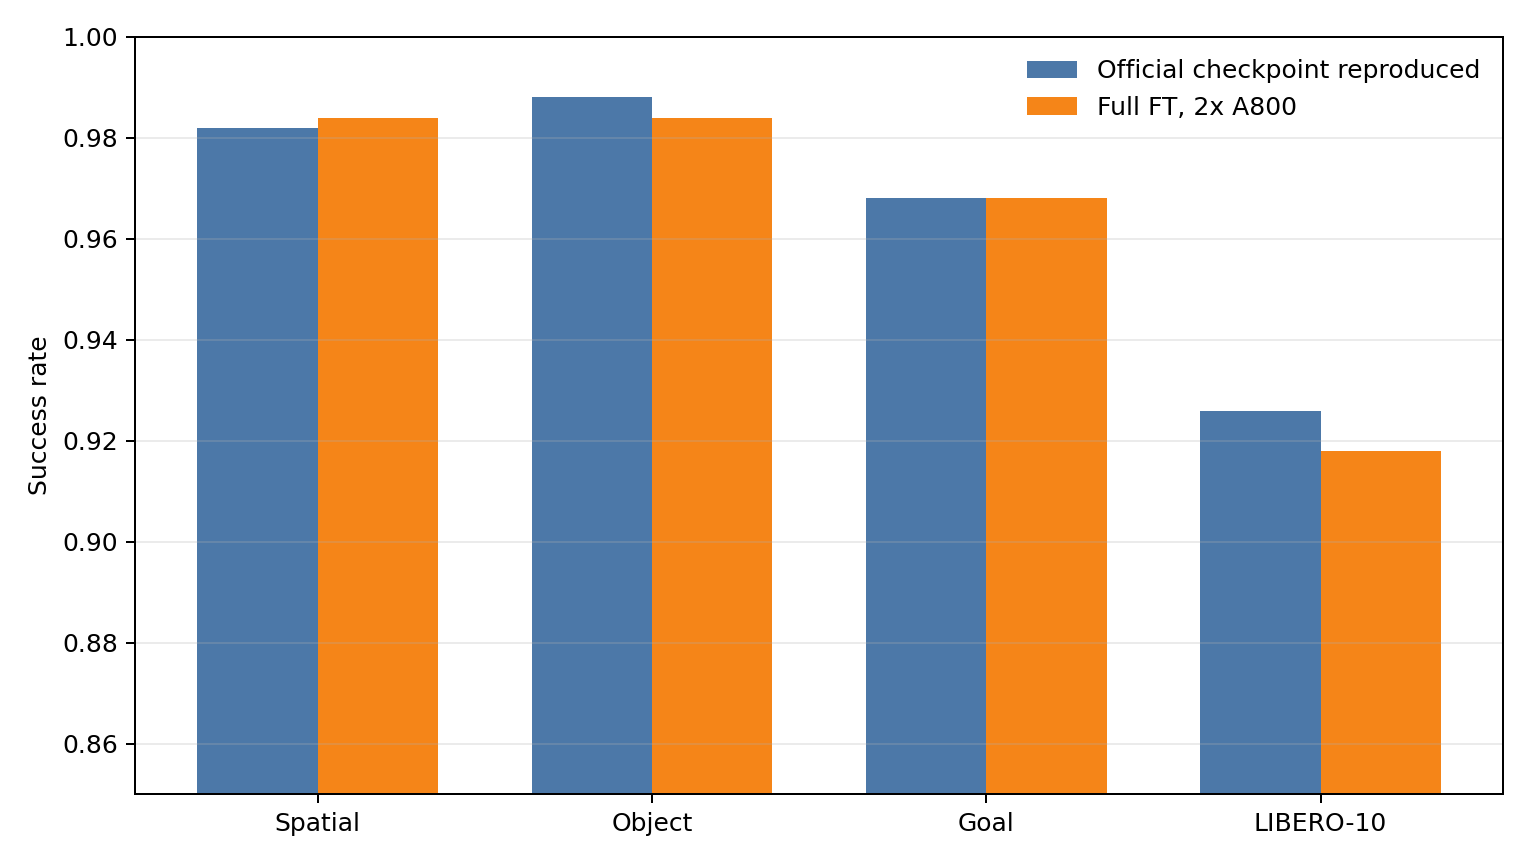
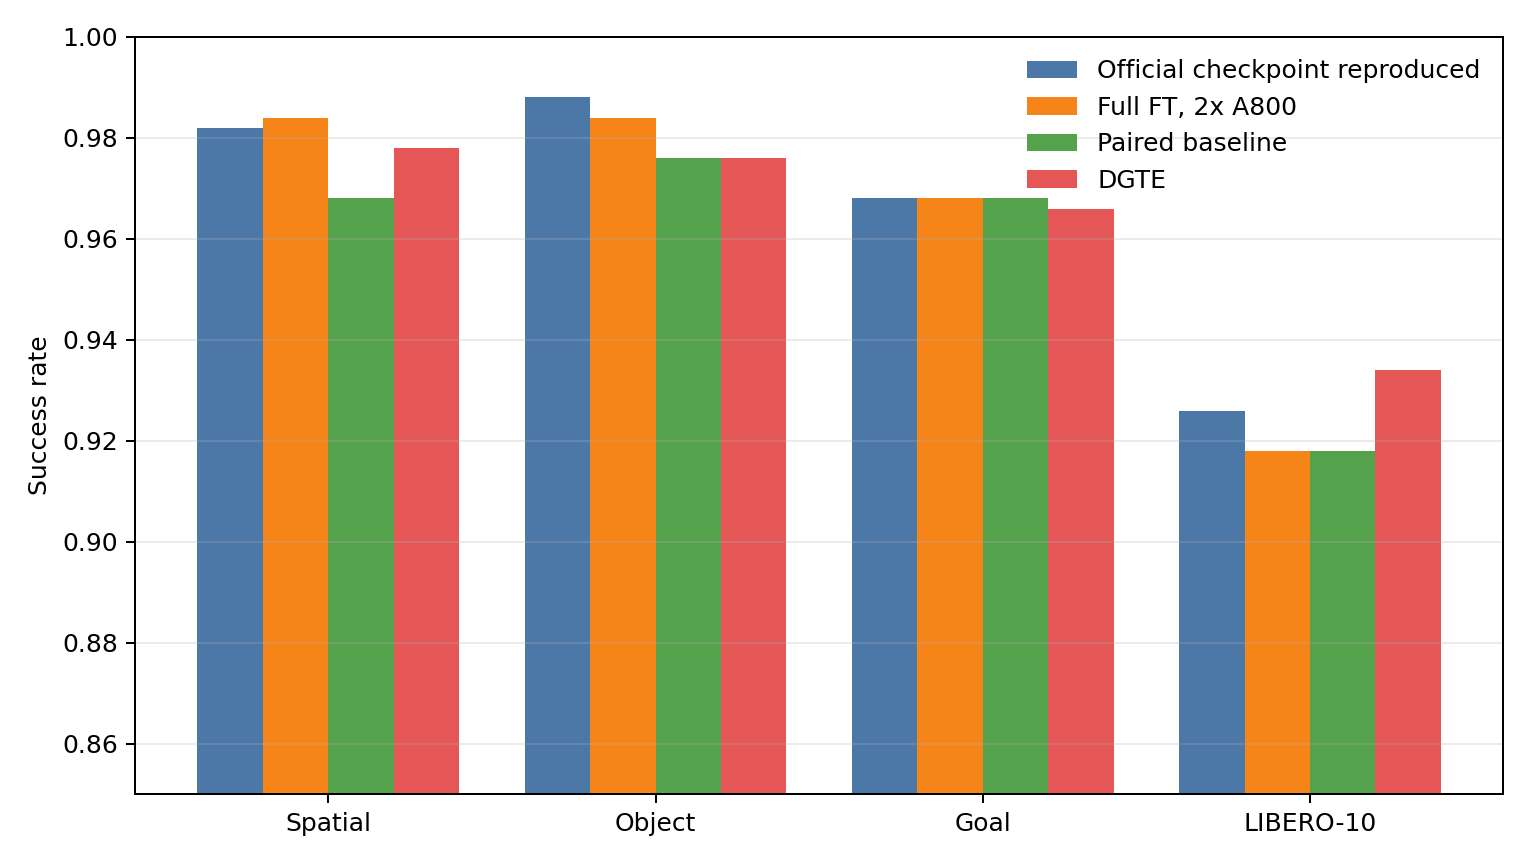
exp: publish formal DGTE paired benchmark

diff --git a/scripts/plot_results.py b/scripts/plot_results.py
@@ -1,5 +1,5 @@
 #!/usr/bin/env python3
-"""Plot the completed official-checkpoint and fine-tuning LIBERO results."""
+"""Plot the completed LIBERO baseline and DGTE results."""
 
 from __future__ import annotations
 
@@ -22,6 +22,8 @@ def main() -> None:
     suites = ["Spatial", "Object", "Goal", "LIBERO-10"]
     official = [0.982, 0.988, 0.968, 0.926]
     finetuned = [0.984, 0.984, 0.968, 0.918]
+    paired_baseline = [0.968, 0.976, 0.968, 0.918]
+    dgte = [0.978, 0.976, 0.966, 0.934]
     csv_path = Path(__file__).resolve().parents[1] / "experiments/results.csv"
     if csv_path.exists():
         with csv_path.open(newline="") as handle:
@@ -32,9 +34,11 @@ def main() -> None:
 
     x = np.arange(len(suites))
     figure, axis = plt.subplots(figsize=(8.5, 4.8))
-    width = 0.36
-    axis.bar(x - width / 2, official, width, label="Official checkpoint reproduced", color="#4c78a8")
-    axis.bar(x + width / 2, finetuned, width, label="Full FT, 2x A800", color="#f58518")
+    width = 0.20
+    axis.bar(x - 1.5 * width, official, width, label="Official checkpoint reproduced", color="#4c78a8")
+    axis.bar(x - 0.5 * width, finetuned, width, label="Full FT, 2x A800", color="#f58518")
+    axis.bar(x + 0.5 * width, paired_baseline, width, label="Paired baseline", color="#54a24b")
+    axis.bar(x + 1.5 * width, dgte, width, label="DGTE", color="#e45756")
     axis.set_ylim(0.85, 1.0)
     axis.set_ylabel("Success rate")
     axis.set_xticks(x, suites)

diff --git a/README.md b/README.md
@@ -21,8 +21,8 @@ extension:
    2x A800-80GB GPUs.
 3. DGTE (Disagreement-Gated Temporal Ensemble) is implemented as a client-side
    inference method. It fuses overlapping action chunks without changing the
-   checkpoint or requiring another training run. Its benchmark result is not
-   reported until the paired A/B evaluation has completed.
+   checkpoint or requiring another training run. Its paired four-suite
+   benchmark completed with a +0.60 percentage-point mean change.
 
 The repository does not contain model weights. Checkpoint paths in the tables
 are local archive paths from the original run; use the commands below to point
@@ -38,13 +38,22 @@ episodes per suite), and seed 7. Logs and CSV files are under
 |---|---:|---:|---:|---:|---:|
 | Official pi0.5 checkpoint, reproduced | 98.2% | 98.8% | 96.8% | 92.6% | **96.60%** |
 | pi05_base -> LIBERO, 2x A800, 30k steps | 98.4% | 98.4% | 96.8% | 91.8% | **96.35%** |
-| DGTE on the fine-tuned checkpoint (formal run) | pending | pending | pending | pending | pending |
+| Fine-tuned checkpoint, paired DGTE baseline | 96.8% | 97.6% | 96.8% | 91.8% | **95.75%** |
+| DGTE on the fine-tuned checkpoint | 97.8% | 97.6% | 96.6% | 93.4% | **96.35%** |
 
 The official checkpoint row is independently documented in
 [`docs/baseline.md`](docs/baseline.md). The fine-tuning row is archived in
 [`experiments/results.csv`](experiments/results.csv) and
 [`docs/results.md`](docs/results.md). No OOD or multimodal result is claimed in
 this repository yet.
+
+The formal paired DGTE run used 500 episodes per suite for each controller.
+The observed four-suite mean was 0.60 percentage points above its paired
+baseline, with gains on Spatial and LIBERO-10, no change on Object, and a
+0.20-point decrease on Goal. The aggregate exact McNemar test was not
+significant (`p=0.323`), so this is not evidence of a reliable overall gain.
+The tracked summary is
+[`experiments/dgte_ablation_parallel_20260818_2055_sr_summary.csv`](experiments/dgte_ablation_parallel_20260818_2055_sr_summary.csv).
 
 Training evidence is kept in [`docs/figures/`](docs/figures/) and the linked
 WandB run: <https://wandb.ai/3267189544-uestc/openpi/runs/hwdxnlvn>.
@@ -146,14 +155,14 @@ Run a paired baseline/DGTE evaluation against an existing checkpoint:
 cd "$PERSONAL_DIR"
 EXP_NAME=pi05_libero_2gpu_20260610_1529 \
 GPU_ID=5 \
-N_EPISODES_PER_TASK=10 \
+N_EPISODES_PER_TASK=50 \
 ./scripts/run_temporal_ablation.sh
 ```
 
 The script writes separate logs, rollout videos, and `sr_summary.csv` rows for
-both controllers. A one-episode-per-task Spatial smoke run passed for both
-controllers; a 50-episode run across all four suites is required before adding
-DGTE numbers to the main result table.
+both controllers. On a node with eight free GPUs, the equivalent
+`scripts/run_temporal_ablation_parallel.sh` launcher runs each independent
+controller/suite pair on its own GPU and validates the same episode counts.
 
 ## Repository map
 

diff --git a/docs/results.md b/docs/results.md
@@ -35,15 +35,30 @@ each suite.
 
 ## DGTE
 
-An integration smoke run used the fine-tuned `29999` checkpoint and the
-`libero_spatial` suite with one episode per task (10 episodes per controller):
+The formal paired run used the fine-tuned `29999` checkpoint, seed 7, replan
+steps 5, 50 episodes per task, and 10 tasks per suite. Baseline and DGTE were
+evaluated independently with the same protocol:
 
-| Controller | Suite | Episodes | Success rate |
-|---|---|---:|---:|
-| baseline | `libero_spatial` | 10 | 1.000 |
-| DGTE | `libero_spatial` | 10 | 1.000 |
+| Controller | Spatial | Object | Goal | LIBERO-10 | Average |
+|---|---:|---:|---:|---:|---:|
+| baseline | 0.968 | 0.976 | 0.968 | 0.918 | **0.9575** |
+| DGTE | 0.978 | 0.976 | 0.966 | 0.934 | **0.9635** |
+| DGTE - baseline | +0.010 | 0.000 | -0.002 | +0.016 | **+0.0060** |
 
-This verifies the websocket client, simulator, chunk alignment, and video
-writer. It is intentionally not compared with the 50-episode headline table.
-The formal four-suite paired result will be appended only from
-`scripts/run_temporal_ablation.sh` with `N_EPISODES_PER_TASK=50`.
+Every controller/suite row contains 500 episodes (4,000 episodes total). The
+tracked source is
+`experiments/dgte_ablation_parallel_20260818_2055_sr_summary.csv`; full logs and
+videos remain under the corresponding ignored experiment directory. The
+observed 0.60-point mean gain is not evidence of uniform improvement: Goal
+decreased slightly and Object was unchanged.
+
+Pairing outcomes by task, initial-state index, and episode order gives 68 cases
+where baseline failed and DGTE succeeded versus 56 cases in the opposite
+direction. The two-sided exact McNemar test gives `p=0.323248`, so the aggregate
+difference is not statistically significant at 0.05. Suite-level paired counts
+are archived in
+`experiments/dgte_ablation_parallel_20260818_2055_paired_counts.csv`.
+
+The baseline values in this paired run should be used for the DGTE delta. They
+are kept separate from the earlier fine-tuning evaluation because that run
+used a different evaluator process and execution schedule.

diff --git a/docs/innovation.md b/docs/innovation.md
@@ -36,11 +36,26 @@ and stores logs/videos under `experiments/<run_id>/`. A quick 10-episode smoke
 test is useful for catching simulator or server issues, but only the 50-episode
 paired run belongs in the headline table.
 
-## Current status
+For an eight-GPU node, the formal run used the equivalent parallel launcher:
 
-The implementation and CPU unit tests are complete. A real simulator smoke run
-also completed successfully on 2026-08-18: one episode per task on
-`libero_spatial` gave 10/10 for both baseline and DGTE. This is only an
-integration check, not a headline result. The four-suite, 50-episode-per-task
-paired benchmark remains pending, and no DGTE improvement is claimed before
-that controlled run finishes.
+```bash
+EXP_NAME=pi05_libero_2gpu_20260610_1529 \
+GPU_IDS="0 1 2 3 4 5 6 7" \
+N_EPISODES_PER_TASK=50 \
+./scripts/run_temporal_ablation_parallel.sh
+```
+
+## Formal result
+
+The full paired benchmark completed on 2026-08-18. Each of the eight
+controller/suite combinations contains 500 episodes. The observed mean success
+rate changed from 95.75% to 96.35% (+0.60 percentage points): Spatial changed
+from 96.8% to 97.8%, Object remained 97.6%, Goal changed from 96.8% to 96.6%,
+and LIBERO-10 changed from 91.8% to 93.4%.
+
+The paired episode outcomes contain 68 baseline-fail/DGTE-success cases and 56
+baseline-success/DGTE-fail cases. A two-sided exact McNemar test gives
+`p=0.323248`; the observed gain is therefore not statistically significant and
+does not support a claim that DGTE reliably improves this benchmark. The
+machine-readable success rates and paired counts are archived under
+`experiments/dgte_ablation_parallel_20260818_2055_*`.

diff --git a/docs/method.md b/docs/method.md
@@ -51,8 +51,10 @@ ablation. `baseline` and `dgte` are both supported by
 `scripts/eval_libero_temporal.py`; `scripts/run_temporal_ablation.sh` runs them
 against the same server and writes one CSV row per controller and suite.
 
-## Planned comparison
+## Controlled comparison
 
-DGTE results will only be added after the same checkpoint, seed, number of
-episodes, and task suites have been run for both controllers. Until then the
-result is intentionally marked `pending` in the README.
+DGTE and its baseline were evaluated with the same checkpoint, seed, number of
+episodes, task suites, and client implementation. Each controller/suite pair
+contains 500 episodes. The observed four-suite mean changed from 95.75% to
+96.35%, but the exact paired McNemar test was not significant (`p=0.323248`);
+see `docs/results.md` and the tracked CSV for suite-level values and caveats.
